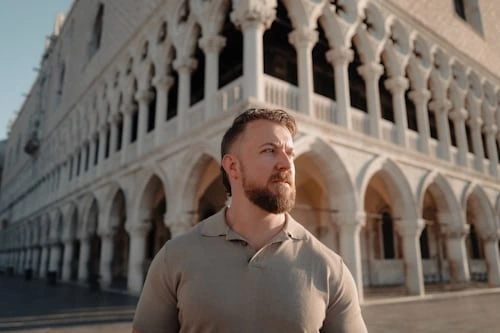
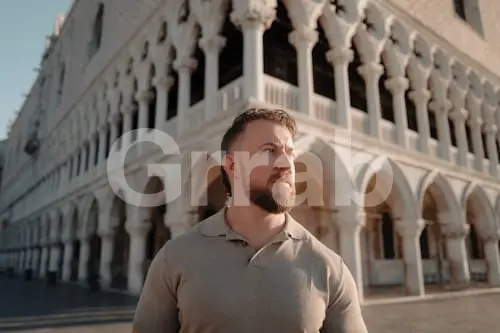
feat(site): the demos remove a watermark
The editor gained Remove Watermark in 1.6.1; the page's mockups of the editor showed only Remove BG.
The button sits where the product puts it, to the left, in all three copies of the overlay, and it
hides while an area is marked for erasing, as the product's does.

Three of the hero's tiles now carry a watermark, and their demo presses the new button and reveals the
photograph underneath. Row B has a card for it. Row A, which shows Instant mode copying an image as it
is, stops picking those tiles, so it never pastes a watermark as its example.

Changed region(s): [[0.21, 0.3604, 0.81, 0.6306]]

diff --git a/docs/assets/js/landing.js b/docs/assets/js/landing.js
@@ -31,6 +31,7 @@
   var heroOverlay = document.getElementById("heroOverlay");
   var heroOverlayAfter = document.getElementById("heroOverlayAfter");
   var heroOverlayBtn = document.getElementById("heroOverlayBtn");
+  var heroOverlayWatermarkBtn = document.getElementById("heroOverlayWatermarkBtn");
   var heroBusy = document.getElementById("heroBusy");
   var heroHandle = document.getElementById("heroHandle");
   var heroClip = document.querySelector(".hero-slider-clip");
@@ -150,14 +151,20 @@
 
     /* Hit testing DOES use getBoundingClientRect with elementFromPoint, because that
        pair works in viewport space and is unaffected by the transform either way. */
-    var heroTrack = function(durationMs){
+    var heroCursorMoveMs = 750;
+    var heroTrack = function(durationMs, opts){
+      opts = opts || {};
+      if (heroRaf) { cancelAnimationFrame(heroRaf); heroRaf = 0; }
       var started = Date.now();
       var tick = function(){
         var r = heroCursor.getBoundingClientRect();
         var under = document.elementFromPoint(r.left, r.top);
         heroHotOnly(under && under.closest ? under.closest(".hero-tile") : null);
         if (Date.now() - started < durationMs) heroRaf = requestAnimationFrame(tick);
-        else heroRaf = 0;
+        else {
+          heroRaf = 0;
+          if (opts.clearOnEnd) heroHotOnly(null);
+        }
       };
       heroRaf = requestAnimationFrame(tick);
     };
@@ -165,11 +172,13 @@
     /* The press is NOT released on a timer any more. It stays down for as long as the
        spinner runs, which is what makes the button read as busy rather than as a
        click that already finished. heroReveal is the single point where both end. */
-    var heroHover = function(){
-      if (heroOverlayBtn) heroOverlayBtn.classList.add("hero-overlay-btn--hover");
+    var heroHover = function(btn){
+      btn = btn || heroOverlayBtn;
+      if (btn) btn.classList.add("hero-overlay-btn--hover");
     };
-    var heroPress = function(){
-      if (heroOverlayBtn) heroOverlayBtn.classList.add("hero-overlay-btn--press");
+    var heroPress = function(btn){
+      btn = btn || heroOverlayBtn;
+      if (btn) btn.classList.add("hero-overlay-btn--press");
       if (heroBusy) heroBusy.classList.add("hero-busy--on");
       if (heroMarquee) {
         heroMarquee.classList.remove("hero-marquee--on");
@@ -177,9 +186,10 @@
         heroMarquee.style.height = "0%";
       }
     };
-    var heroReveal = function(){
+    var heroReveal = function(btn){
+      btn = btn || heroOverlayBtn;
       if (heroBusy) heroBusy.classList.remove("hero-busy--on");
-      if (heroOverlayBtn) heroOverlayBtn.classList.remove("hero-overlay-btn--press");
+      if (btn) btn.classList.remove("hero-overlay-btn--press");
       if (heroClip) heroClip.classList.add("hero-slider-clip--wipe");
       if (heroOverlayPicture) {
         heroOverlayPicture.style.transition = "none";
@@ -205,7 +215,7 @@
        image exactly or the checkerboard shows past the picture's edge. */
     var heroSteps = [
       { tile:13, img:"/assets/landing/img/hero-image-14-before.webp", ratio:"1000/563",
-        icon:"/assets/landing/icons/hero/icon_removebg.svg", label:"Remove BG", alpha:true },
+        target:"watermark", alpha:false },
       { tile:12, img:"/assets/landing/img/hero-image-13-before.webp", ratio:"1000/672",
         icon:"/assets/landing/icons/hero/icon_removebg.svg", label:"Remove BG", alpha:true },
       { tile:11, img:"/assets/landing/img/hero-image-12-before.webp", ratio:"1000/667",
@@ -218,9 +228,9 @@
       { tile:9, img:"/assets/landing/img/hero-image-10-before.webp", ratio:"1000/667",
         icon:"/assets/landing/icons/hero/icon_removebg.svg", label:"Remove BG", alpha:true },
       { tile:7, img:"/assets/landing/img/hero-image-2-before.webp", ratio:"1000/667",
-        icon:"/assets/landing/icons/hero/icon_removebg.svg", label:"Remove BG", alpha:true },
+        target:"watermark", alpha:false },
       { tile:6, img:"/assets/landing/img/hero-image-9-before.webp", ratio:"500/333",
-        icon:"/assets/landing/icons/hero/icon_removebg.svg", label:"Remove BG", alpha:true },
+        target:"watermark", alpha:false },
       { tile:5, img:"/assets/landing/img/hero-image-7-before.webp", ratio:"534/800",
         icon:"/assets/landing/icons/hero/icon_erase.svg", label:"Remove",
         /* Measured from a screenshot — approximate, not derived. */
@@ -250,6 +260,10 @@
         erasing ? "/assets/landing/icons/hero/icon_erase.svg"
                 : "/assets/landing/icons/hero/icon_removebg.svg");
       if (heroOverlayBtnLabel) heroOverlayBtnLabel.textContent = erasing ? "Remove" : "Remove BG";
+      if (heroOverlayWatermarkBtn) {
+        if (erasing) heroOverlayWatermarkBtn.classList.add("hero-overlay-btn--hidden");
+        else heroOverlayWatermarkBtn.classList.remove("hero-overlay-btn--hidden");
+      }
       if (heroHint) {
         if (erasing) heroHint.classList.add("hero-hint--off");
         else heroHint.classList.remove("hero-hint--off");
@@ -751,6 +765,7 @@
         heroAt(revealAt + 3200, function(){
           heroSlot2 = heroPickSlot();
           heroMoveTo(heroPastePointIn(heroSlot2.ox, heroSlot2.oy));
+          heroTrack(heroCursorMoveMs, { clearOnEnd: true });
         });
         heroAt(revealAt + 3950, function(){
           if (heroTipV) heroTipV.classList.add("hero-tip--in");
@@ -1268,6 +1283,7 @@
   var rowBOverlayImg = null;
   var rowBOverlayAfter = null;
   var rowBOverlayBtn = null;
+  var rowBOverlayWatermarkBtn = null;
   var rowBActUpscale = null;
   var rowBActs = [];
   var rowBLateActs = [];
@@ -1298,6 +1314,7 @@
         rowBOverlayImg = document.getElementById("rowBOverlayImg");
         rowBOverlayAfter = document.getElementById("rowBOverlayAfter");
         rowBOverlayBtn = document.getElementById("rowBOverlayBtn");
+        rowBOverlayWatermarkBtn = document.getElementById("rowBOverlayWatermarkBtn");
         rowBActUpscale = document.getElementById("rowBActUpscale");
         rowBMarquee = document.getElementById("rowBMarquee");
         rowBHandle = document.getElementById("rowBHandle");
@@ -1317,6 +1334,7 @@
         rowBOverlayImg = document.getElementById("heroOverlayImg");
         rowBOverlayAfter = document.getElementById("heroOverlayAfter");
         rowBOverlayBtn = document.getElementById("heroOverlayBtn");
+        rowBOverlayWatermarkBtn = document.getElementById("heroOverlayWatermarkBtn");
         rowBActUpscale = document.getElementById("heroActUpscale");
         rowBMarquee = document.getElementById("heroMarquee");
         rowBHandle = document.getElementById("heroHandle");
@@ -1340,6 +1358,8 @@
     var rowBSteps = [
       { tile:4, img:"/assets/landing/img/hero-image-4-before.webp", ratio:"1000/667",
         icon:"/assets/landing/icons/rowB/icon_removebg.svg", label:"Remove BG", alpha:true },
+      { tile:7, img:"/assets/landing/img/hero-image-2-before.webp", ratio:"1000/667",
+        target:"watermark", alpha:false },
       /* "Remove" is the extension's own wording for the erase action, and it is written
          out again in the hero's heroSetAction — change both together. */
       { tile:8, img:"/assets/landing/img/hero-image-5-before.webp", ratio:"1000/668",
@@ -1353,14 +1373,18 @@
         busy:"Upscaling…", target:"upscale" }
     ];
     /* Row B keeps icon and label on the step, unlike the hero: a card click chooses the
-       pass, so which label the drag switches TO depends on the card. Card 1 has no drag
-       and stays on Remove BG throughout. */
+       pass, so which label the drag switches TO depends on the card. Cards without a box
+       keep Remove BG on the primary button unless erasing. */
     var rowBSetAction = function(step, erasing){
       if (rowBBusyText) rowBBusyText.textContent = step.busy || "Removing…";
       if (rowBOverlayBtnIcon) rowBOverlayBtnIcon.setAttribute("src",
         erasing ? step.icon : "/assets/landing/icons/rowB/icon_removebg.svg");
       if (rowBOverlayBtnLabel) rowBOverlayBtnLabel.textContent =
         erasing ? step.label : "Remove BG";
+      if (rowBOverlayWatermarkBtn) {
+        if (erasing) rowBOverlayWatermarkBtn.classList.add("hero-overlay-btn--hidden");
+        else rowBOverlayWatermarkBtn.classList.remove("hero-overlay-btn--hidden");
+      }
       if (rowBHint) {
         if (erasing) rowBHint.classList.add("hero-hint--off");
         else rowBHint.classList.remove("hero-hint--off");
@@ -1445,12 +1469,13 @@
     /* The press is NOT released on a timer any more. It stays down for as long as the
        spinner runs, which is what makes the button read as busy rather than as a
        click that already finished. rowBReveal is the single point where both end. */
-    /* Two buttons can be pressed in this mockup: the top action button, and the bottom
-       bar's Upscale on the third card. The class prefixes differ, so the target carries
-       both. */
+    /* Three press targets: Remove Watermark, Remove BG, and the bottom bar's Upscale.
+       The class prefixes differ, so the target carries both. */
     var rowBTargetEl = function(){
       var s = rowBSteps[rowBCurrent];
-      return (s && s.target === "upscale") ? rowBActUpscale : rowBOverlayBtn;
+      if (s && s.target === "upscale") return rowBActUpscale;
+      if (s && s.target === "watermark") return rowBOverlayWatermarkBtn;
+      return rowBOverlayBtn;
     };
     var rowBTargetCls = function(){
       var s = rowBSteps[rowBCurrent];
@@ -1541,6 +1566,11 @@
       if (rowBOverlayBtn) {
         rowBOverlayBtn.classList.remove("hero-overlay-btn--press");
         rowBOverlayBtn.classList.remove("hero-overlay-btn--hover");
+      }
+      if (rowBOverlayWatermarkBtn) {
+        rowBOverlayWatermarkBtn.classList.remove("hero-overlay-btn--hidden");
+        rowBOverlayWatermarkBtn.classList.remove("hero-overlay-btn--press");
+        rowBOverlayWatermarkBtn.classList.remove("hero-overlay-btn--hover");
       }
       if (rowBActUpscale) {
         rowBActUpscale.classList.remove("hero-overlay-act--press");
@@ -1744,13 +1774,16 @@
 
   /* ─────────────────────────── ROW B — SOURCE SWITCHER ─────────────────────────── */
   var inspireConfig = [
-    {id:"youtube",  label:"YouTube.",  desc:"Thumbnails from feed or video page.",  previewLabel:"YouTube grab preview",  name:"Youtube",   short:"YT", tint:"#FF0000", preview:"/assets/landing/img/youtube_preview.webp",
+    {id:"youtube",  label:"YouTube.",  previewLabel:"YouTube grab preview",  name:"Youtube",   short:"YT", tint:"#FF0000", preview:"/assets/landing/img/youtube_preview.webp",
      icon:'<svg width="22" height="22" viewBox="0 0 24 24" fill="currentColor" aria-hidden="true"><path d="M23 12s0-3.9-.5-5.6a2.9 2.9 0 0 0-2-2C18.8 4 12 4 12 4s-6.8 0-8.5.4a2.9 2.9 0 0 0-2 2C1 8.1 1 12 1 12s0 3.9.5 5.6a2.9 2.9 0 0 0 2 2C5.2 20 12 20 12 20s6.8 0 8.5-.4a2.9 2.9 0 0 0 2-2C23 15.9 23 12 23 12Z"/><polygon points="9.8 15.2 15.5 12 9.8 8.8" fill="#fff"/></svg>'},
-    {id:"instagram",label:"Instagram.",desc:"Posts, and frames from reels.",        previewLabel:"Instagram grab preview",name:"Instagram", short:"IG", tint:"#C13584", preview:"/assets/landing/img/instagram_preview.webp",
+    {id:"instagram",label:"Instagram.",previewLabel:"Instagram grab preview",name:"Instagram", short:"IG", tint:"#C13584", preview:"/assets/landing/img/instagram_preview.webp",
      icon:'<svg width="22" height="22" viewBox="0 0 24 24" fill="none" stroke="currentColor" stroke-width="2" stroke-linecap="round" stroke-linejoin="round" aria-hidden="true"><rect x="2.5" y="2.5" width="19" height="19" rx="5.5"/><circle cx="12" cy="12" r="4.2"/><circle cx="17.4" cy="6.6" r="1.1" fill="currentColor" stroke="none"/></svg>'},
-    {id:"pinterest",label:"Pinterest.",desc:"Any pin, without opening it.",    previewLabel:"Pinterest grab preview",name:"Pinterest", short:"P",  tint:"#E60023", preview:"/assets/landing/img/pinterest_preview.webp",
+    {id:"pinterest",label:"Pinterest.",previewLabel:"Pinterest grab preview",name:"Pinterest", short:"P",  tint:"#E60023", preview:"/assets/landing/img/pinterest_preview.webp",
      icon:'<svg width="22" height="22" viewBox="0 0 24 24" fill="currentColor" aria-hidden="true"><path d="M12 2a10 10 0 0 0-3.6 19.3c-.1-.8-.2-2 0-2.9l1.2-4.9s-.3-.6-.3-1.5c0-1.4.8-2.4 1.8-2.4.9 0 1.3.6 1.3 1.4 0 .9-.5 2.2-.8 3.4-.2.9.5 1.7 1.4 1.7 1.7 0 2.9-2.2 2.9-4.7 0-2-1.3-3.4-3.7-3.4a4.2 4.2 0 0 0-4.4 4.2c0 .8.2 1.4.6 1.8.2.2.2.3.1.5l-.2.8c0 .3-.2.3-.5.2-1.3-.5-1.9-2-1.9-3.6 0-2.7 2.3-5.9 6.7-5.9 3.6 0 5.9 2.6 5.9 5.3 0 3.6-2 6.4-5 6.4-1 0-2-.6-2.3-1.2l-.6 2.5c-.2.8-.7 1.7-1 2.3A10 10 0 1 0 12 2Z"/></svg>'},
-    {id:"video",    label:"Any video.",     desc:"Whatever frame is on screen.", previewLabel:"Video grab preview",   name:"Video",     short:"V",  tint:"#BC13FE", preview:"/assets/landing/img/rowC/video-main.webp",
+    {id:"chatgpt",  label:"ChatGPT.",       previewLabel:"ChatGPT grab preview", name:"ChatGPT", short:"GPT", tint:"#10A37F",
+     preview:"/assets/landing/img/rowC/gpt-image-1.webp",
+     icon:'<svg width="22" height="22" viewBox="0 0 24 24" fill="none" aria-hidden="true"><path d="M9.20509 8.76511V6.50545C9.20509 6.31513 9.27649 6.17234 9.44293 6.0773L13.9861 3.46088C14.6046 3.10413 15.342 2.93769 16.103 2.93769C18.9573 2.93769 20.7651 5.14983 20.7651 7.50454C20.7651 7.67098 20.7651 7.86129 20.7412 8.05161L16.0316 5.2924C15.7462 5.12596 15.4607 5.12596 15.1753 5.2924L9.20509 8.76511ZM19.8135 17.5659V12.1664C19.8135 11.8333 19.6708 11.5955 19.3854 11.429L13.4152 7.95633L15.3656 6.83833C15.5321 6.74328 15.6749 6.74328 15.8413 6.83833L20.3845 9.45474C21.6928 10.216 22.5728 11.8333 22.5728 13.4031C22.5728 15.2108 21.5025 16.8758 19.8135 17.5657V17.5659ZM7.80173 12.8088L5.8513 11.6671C5.68486 11.5721 5.61346 11.4293 5.61346 11.239V6.00613C5.61346 3.46111 7.56389 1.53433 10.2042 1.53433C11.2033 1.53433 12.1307 1.86743 12.9159 2.46202L8.2301 5.17371C7.94475 5.34015 7.80195 5.57798 7.80195 5.91109V12.809L7.80173 12.8088ZM12 15.2349L9.20509 13.6651V10.3351L12 8.76534L14.7947 10.3351V13.6651L12 15.2349ZM13.7958 22.4659C12.7967 22.4659 11.8693 22.1328 11.0841 21.5382L15.7699 18.8265C16.0553 18.6601 16.198 18.4222 16.198 18.0891V11.1912L18.1723 12.3329C18.3388 12.4279 18.4102 12.5707 18.4102 12.761V17.9939C18.4102 20.5389 16.4359 22.4657 13.7958 22.4657V22.4659ZM8.15848 17.1617L3.61528 14.5452C2.30696 13.784 1.42701 12.1667 1.42701 10.5969C1.42701 8.76534 2.52115 7.12414 4.20987 6.43428V11.8574C4.20987 12.1905 4.35266 12.4284 4.63802 12.5948L10.5846 16.0436L8.63415 17.1617C8.46771 17.2567 8.32492 17.2567 8.15848 17.1617ZM7.897 21.0625C5.20919 21.0625 3.23488 19.0407 3.23488 16.5432C3.23488 16.3529 3.25875 16.1626 3.2824 15.9723L7.96817 18.6839C8.25352 18.8504 8.53911 18.8504 8.82446 18.6839L14.7947 15.2351V17.4948C14.7947 17.6851 14.7233 17.8279 14.5568 17.9229L10.0136 20.5393C9.39518 20.8961 8.6578 21.0625 7.89677 21.0625H7.897ZM13.7958 23.8929C16.6739 23.8929 19.0762 21.8474 19.6235 19.1357C22.2874 18.4459 24 15.9484 24 13.4034C24 11.7383 23.2865 10.121 22.002 8.95542C22.121 8.45588 22.1924 7.95633 22.1924 7.45702C22.1924 4.0557 19.4331 1.51045 16.2458 1.51045C15.6037 1.51045 14.9852 1.60549 14.3668 1.81968C13.2963 0.773071 11.8215 0.107086 10.2042 0.107086C7.32606 0.107086 4.92383 2.15256 4.37653 4.86425C1.7126 5.55411 0 8.05161 0 10.5966C0 12.2617 0.713506 13.879 1.99795 15.0446C1.87904 15.5441 1.80764 16.0436 1.80764 16.543C1.80764 19.9443 4.56685 22.4895 7.75421 22.4895C8.39632 22.4895 9.01478 22.3945 9.63324 22.1803C10.7035 23.2269 12.1783 23.8929 13.7958 23.8929Z" fill="currentColor"/></svg>'},
+    {id:"video",    label:"Any video.",     previewLabel:"Video grab preview",   name:"Video",     short:"V",  tint:"#BC13FE", preview:"/assets/landing/img/rowC/video-main.webp",
      icon:'<svg width="22" height="22" viewBox="0 0 24 24" fill="none" aria-hidden="true"><path d="M3 4C1.34315 4 0 5.34315 0 7V17C0 18.6569 1.34315 20 3 20H13C14.6569 20 16 18.6569 16 17V14.5307L20.7286 18.4249C22.0334 19.4994 24.0001 18.5713 24.0001 16.8811V7.28972C24.0001 5.54447 21.9211 4.63648 20.6408 5.8226L16 10.1222V7C16 5.34315 14.6569 4 13 4H3Z" fill="currentColor"/></svg>'}
   ];
   var activeInspire = "youtube";

diff --git a/docs/index.html b/docs/index.html
@@ -118,9 +118,15 @@
                 <span class="hero-tool hero-tool--on" id="heroToolBox"><img src="/assets/landing/icons/hero/icon_select_box.svg" alt=""></span>
                 <span class="hero-hint" id="heroHint">Drag to select an area to erase</span>
               </span>
-              <span class="hero-overlay-btn" id="heroOverlayBtn">
-                <img id="heroOverlayBtnIcon" src="/assets/landing/icons/hero/icon_removebg.svg" alt="">
-                <span id="heroOverlayBtnLabel">Remove BG</span>
+              <span class="hero-overlay-btn-group" aria-hidden="true">
+                <span class="hero-overlay-btn" id="heroOverlayWatermarkBtn">
+                  <img id="heroOverlayWatermarkBtnIcon" src="/assets/landing/icons/hero/icon_watermark.svg" alt="">
+                  <span id="heroOverlayWatermarkBtnLabel">Remove Watermark</span>
+                </span>
+                <span class="hero-overlay-btn" id="heroOverlayBtn">
+                  <img id="heroOverlayBtnIcon" src="/assets/landing/icons/hero/icon_removebg.svg" alt="">
+                  <span id="heroOverlayBtnLabel">Remove BG</span>
+                </span>
               </span>
               <span class="hero-busy" id="heroBusy" aria-hidden="true">
                 <span class="hero-busy-ring"></span>
@@ -232,9 +238,15 @@
                 <span class="hero-tool hero-tool--on" id="rowAToolBox"><img src="/assets/landing/icons/hero/icon_select_box.svg" alt=""></span>
                 <span class="hero-hint" id="rowAHint">Drag to select an area to erase</span>
               </span>
-              <span class="hero-overlay-btn" id="rowAOverlayBtn">
-                <img id="rowAOverlayBtnIcon" src="/assets/landing/icons/hero/icon_removebg.svg" alt="">
-                <span id="rowAOverlayBtnLabel">Remove BG</span>
+              <span class="hero-overlay-btn-group" aria-hidden="true">
+                <span class="hero-overlay-btn" id="rowAOverlayWatermarkBtn">
+                  <img id="rowAOverlayWatermarkBtnIcon" src="/assets/landing/icons/hero/icon_watermark.svg" alt="">
+                  <span id="rowAOverlayWatermarkBtnLabel">Remove Watermark</span>
+                </span>
+                <span class="hero-overlay-btn" id="rowAOverlayBtn">
+                  <img id="rowAOverlayBtnIcon" src="/assets/landing/icons/hero/icon_removebg.svg" alt="">
+                  <span id="rowAOverlayBtnLabel">Remove BG</span>
+                </span>
               </span>
               <span class="hero-busy" id="rowABusy" aria-hidden="true">
                 <span class="hero-busy-ring"></span>
@@ -309,8 +321,12 @@
           <span class="rowB-card-text"><span class="rowB-card-title">Remove BG</span><span class="rowB-card-desc">Keeps the subject, removes the background.</span></span>
         </button>
         <button type="button" class="rowB-card">
+          <span class="rowB-card-icon"><img src="/assets/landing/icons/rowB/icon_watermark.svg" alt=""></span>
+          <span class="rowB-card-text"><span class="rowB-card-title"><span class="rowB-card-title-full">Remove Watermark</span><span class="rowB-card-title-short">Remove WM</span></span><span class="rowB-card-desc">Clears a watermark laid across the whole image.</span></span>
+        </button>
+        <button type="button" class="rowB-card">
           <span class="rowB-card-icon"><img src="/assets/landing/icons/rowB/icon_erase.svg" alt=""></span>
-          <span class="rowB-card-text"><span class="rowB-card-title">Erase</span><span class="rowB-card-desc">Brush over a watermark or object to remove it.</span></span>
+          <span class="rowB-card-text"><span class="rowB-card-title">Erase</span><span class="rowB-card-desc">Brush over an object to remove it.</span></span>
         </button>
         <button type="button" class="rowB-card">
           <span class="rowB-card-icon"><img src="/assets/landing/icons/rowB/icon_upscale.svg" alt=""></span>
@@ -377,9 +393,15 @@
                 <span class="hero-tool hero-tool--on" id="rowBToolBox"><img src="/assets/landing/icons/hero/icon_select_box.svg" alt=""></span>
                 <span class="hero-hint" id="rowBHint">Drag to select an area to erase</span>
               </span>
-              <span class="hero-overlay-btn" id="rowBOverlayBtn">
-                <img id="rowBOverlayBtnIcon" src="/assets/landing/icons/hero/icon_removebg.svg" alt="">
-                <span id="rowBOverlayBtnLabel">Remove BG</span>
+              <span class="hero-overlay-btn-group" aria-hidden="true">
+                <span class="hero-overlay-btn" id="rowBOverlayWatermarkBtn">
+                  <img id="rowBOverlayWatermarkBtnIcon" src="/assets/landing/icons/hero/icon_watermark.svg" alt="">
+                  <span id="rowBOverlayWatermarkBtnLabel">Remove Watermark</span>
+                </span>
+                <span class="hero-overlay-btn" id="rowBOverlayBtn">
+                  <img id="rowBOverlayBtnIcon" src="/assets/landing/icons/hero/icon_removebg.svg" alt="">
+                  <span id="rowBOverlayBtnLabel">Remove BG</span>
+                </span>
               </span>
               <span class="hero-busy" id="rowBBusy" aria-hidden="true">
                 <span class="hero-busy-ring"></span>
@@ -473,7 +495,7 @@
           </span>
           </span>
         </div>
-        <div style="flex:1;background:url('/assets/landing/img/hero-image-2-before.webp') center/cover no-repeat;"></div>
+        <div style="flex:1;background:url('/assets/landing/img/hero-image-2-after.webp') center/cover no-repeat;"></div>
       </div>
         <!-- Dim cards: same shape, no purple frame or glow, and a header stripped to its
              name. The header keeps its height so the three cards line up. -->

diff --git a/docs/assets/js/row-a.js b/docs/assets/js/row-a.js
@@ -158,7 +158,10 @@
       var under = document.elementFromPoint(r.left, r.top);
       rowAHotOnly(under && under.closest ? under.closest(".hero-tile") : null);
       if (Date.now() - started < durationMs) rowARaf = requestAnimationFrame(tick);
-      else rowARaf = 0;
+      else {
+        rowARaf = 0;
+        if (opts.clearOnEnd) rowAHotOnly(null);
+      }
     };
     rowARaf = requestAnimationFrame(tick);
   };
@@ -248,6 +251,19 @@
     var img = tile ? tile.querySelector("img") : null;
     return img ? img.getAttribute("src") : "";
   };
+  /* Hero watermark demo uses these -before files on tiles 6, 7 and 13 (and a second tile 2).
+     Row A copies as-is, so any tile showing one of these paths is skipped. */
+  var rowATilePickExcluded = function(tile){
+    var src = rowATileImgSrc(tile);
+    return /hero-image-(9|2|14)-before\.webp/.test(src);
+  };
+  var rowAPickEligible = function(tiles){
+    var out = [];
+    for (var ei = 0; ei < tiles.length; ei++) {
+      if (!rowATilePickExcluded(tiles[ei])) out.push(tiles[ei]);
+    }
+    return out;
+  };
   var rowATileNatural = function(tile){
     var img = tile ? tile.querySelector("img") : null;
     if (!img || !img.naturalWidth) return null;
@@ -270,7 +286,9 @@
   };
 
   var rowAPickTiles = function(forcedTile){
-    var visible = rowAVisibleTiles();
+    if (forcedTile && rowATilePickExcluded(forcedTile)) forcedTile = null;
+    var visible = rowAPickEligible(rowAVisibleTiles());
+    if (!visible.length) visible = rowAPickEligible(rowATiles);
     if (!visible.length) return [];
     var lead;
     if (forcedTile) {

diff --git a/docs/assets/css/landing.css b/docs/assets/css/landing.css
@@ -231,13 +231,15 @@
       linear-gradient(45deg,#d8d8d8 25%,transparent 25%,transparent 75%,#d8d8d8 75%);
     background-size:calc(10 * var(--hero-u)) calc(10 * var(--hero-u));
     background-position:0 0,calc(5 * var(--hero-u)) calc(5 * var(--hero-u));}
-  .hero-overlay-btn{position:absolute;right:0;bottom:calc(100% + 12 * var(--hero-btn-u));
-    display:inline-flex;align-items:center;gap:calc(5 * var(--hero-btn-u));
+  .hero-overlay-btn-group{position:absolute;right:0;bottom:calc(100% + 12 * var(--hero-btn-u));
+    display:inline-flex;align-items:center;gap:calc(8 * var(--hero-btn-u));}
+  .hero-overlay-btn{display:inline-flex;align-items:center;gap:calc(5 * var(--hero-btn-u));
     padding:calc(6 * var(--hero-btn-u)) calc(11 * var(--hero-btn-u));
     background:#7C1FA8;border:1px solid #BC13FE;border-radius:calc(6 * var(--hero-btn-u));
     font-family:var(--font-sans);font-weight:600;line-height:1.4;
     font-size:calc(11 * var(--hero-btn-u));color:#f0f0f0;white-space:nowrap;
     transition:background .15s ease,border-color .15s ease;}
+  .hero-overlay-btn--hidden{visibility:hidden;}
   .hero-overlay-btn img{width:calc(11 * var(--hero-btn-u));height:calc(11 * var(--hero-btn-u));display:block;
     filter:brightness(0) invert(1);}
   .hero-overlay-btn--hover{background:#BC13FE;border-color:transparent;}
